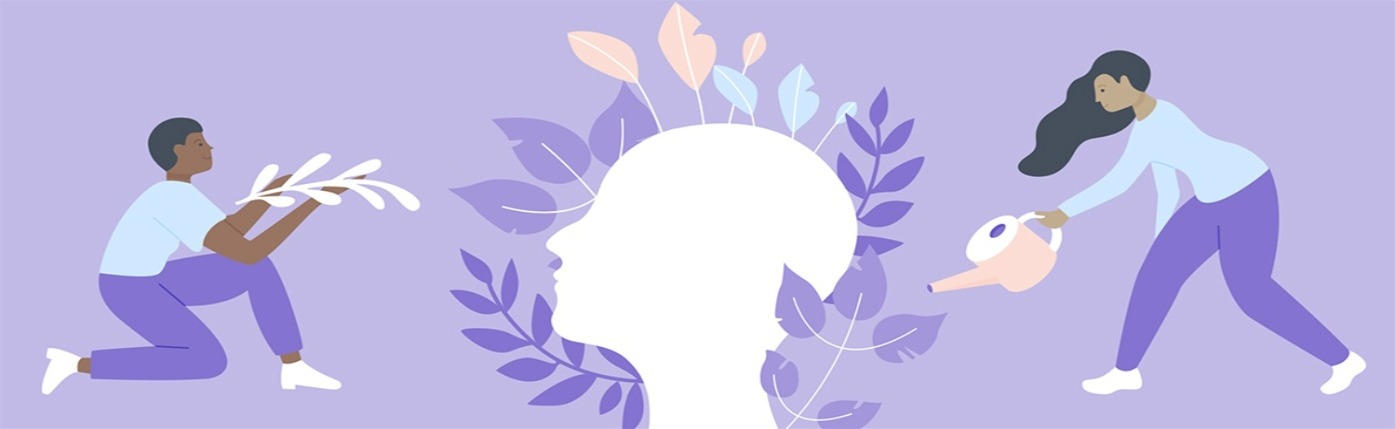
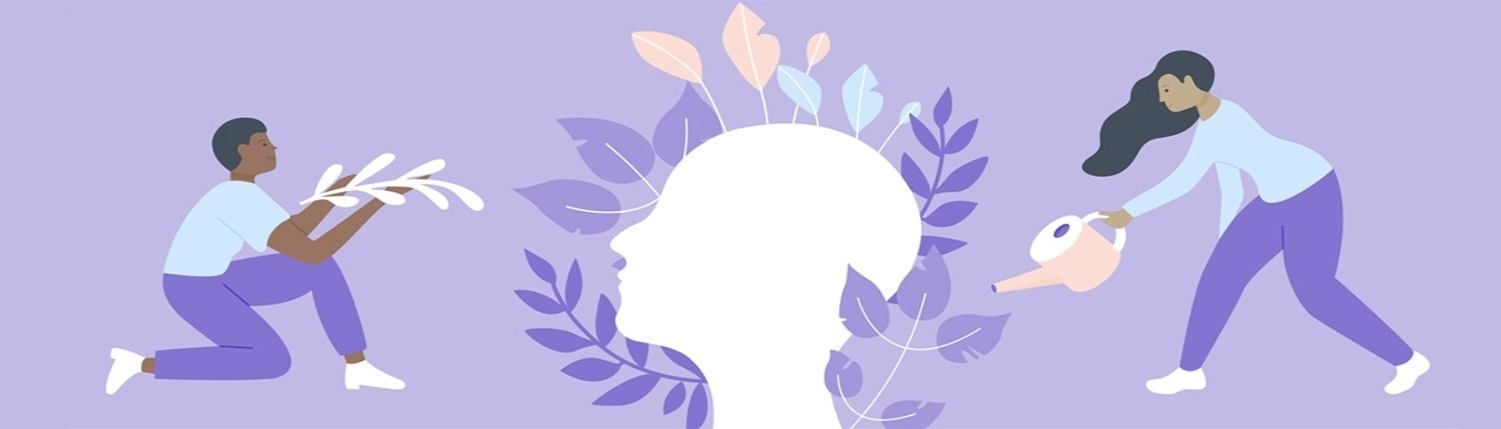
fix/EditingSliderImages

diff --git a/src/components/Slider/Slider.module.css b/src/components/Slider/Slider.module.css
@@ -5,8 +5,8 @@
 }
 
 .slide {
-    width: 100%;
-    height: 100%;
+    /* width: 100%; */
+    /* height: 100%; */
     opacity: 1;
 }
 .img1_title
@@ -42,6 +42,8 @@
     color: rgb(130, 79, 144);
     text-shadow: 1px 2px 3px rgb(95, 95, 95);
 }
+
+
 .img4_box{
     padding: 0;
 }
@@ -90,5 +92,49 @@
     padding-top: 40px;
     padding-left: 250px;
 }
+@media screen and (max-width: 800px) {
+    .img3_box
+    {
+        padding: 45px;
+        padding-right: 30px;
+    }
+    .img3_title
+    {
+        font-size:xx-large;
+    }
+    .img3_p
+    {
+        font-size: medium;
+        line-height: 1.5rem;
+        /* width: 400px; */
+    }
+    .img4_text1
+    {
+        font-size: 25px;
+        padding-top: 30px;
+    }
+    .img4_text2
+    {
+        font-size: 20px;
+        padding-left: 120px;
+    }
+    .img4_text3
+    {
+        font-size: 20px;
+        padding-left: 400px;
+        padding-top: 0px;
+    }
+    .img4_text4
+    {
+        font-size: 20px;
+        padding-left: 30px;
+    }
+    .img4_text5
+    {
+        font-size: 20px;
+        padding-top: 90px;
+        padding-left: 380px;
+    }
+  }
 /* ---------- */
 

diff --git a/src/components/Slider/Slider.jsx b/src/components/Slider/Slider.jsx
@@ -27,7 +27,7 @@ const Slider = () => {
       <div>
         <div
           style={{
-            background: `url(${slides[currentIndex].name}) no-repeat`,
+            background: `url(${slides[currentIndex].name}) no-repeat center`,
             height: "429px",
             width: "100%",
           }}
